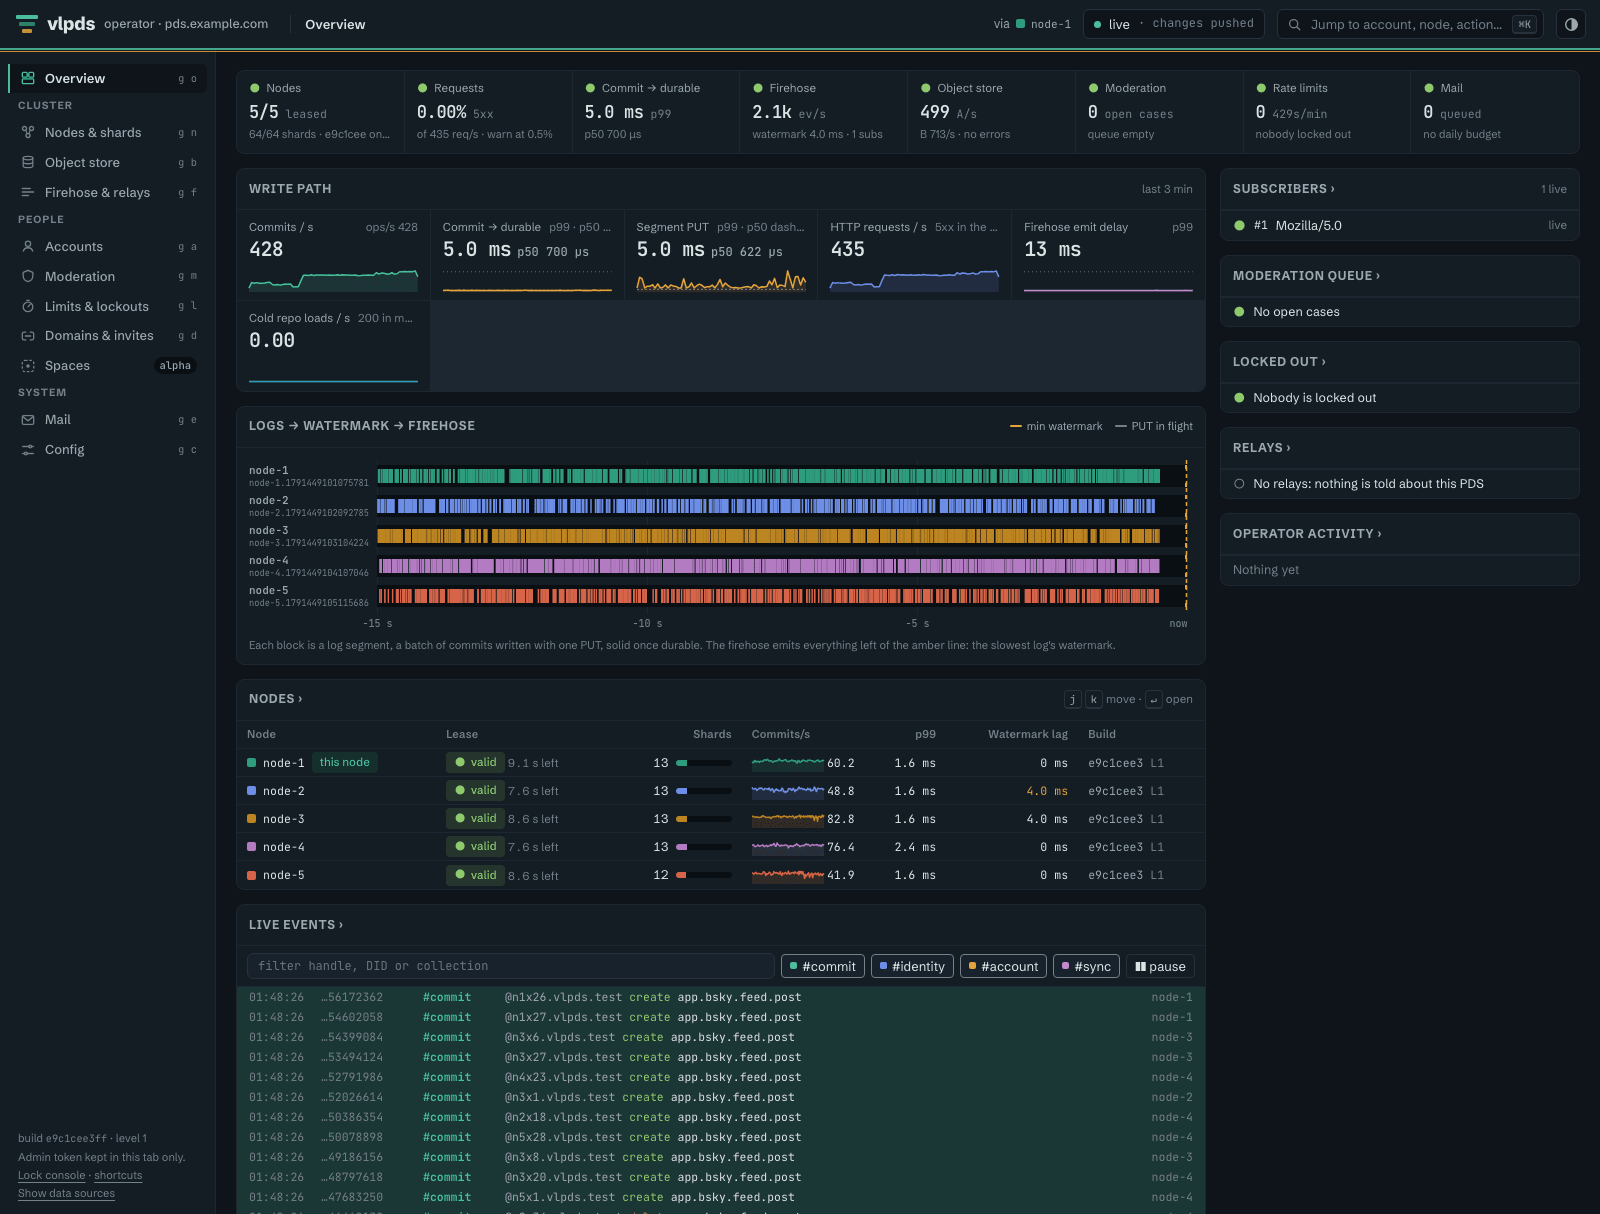
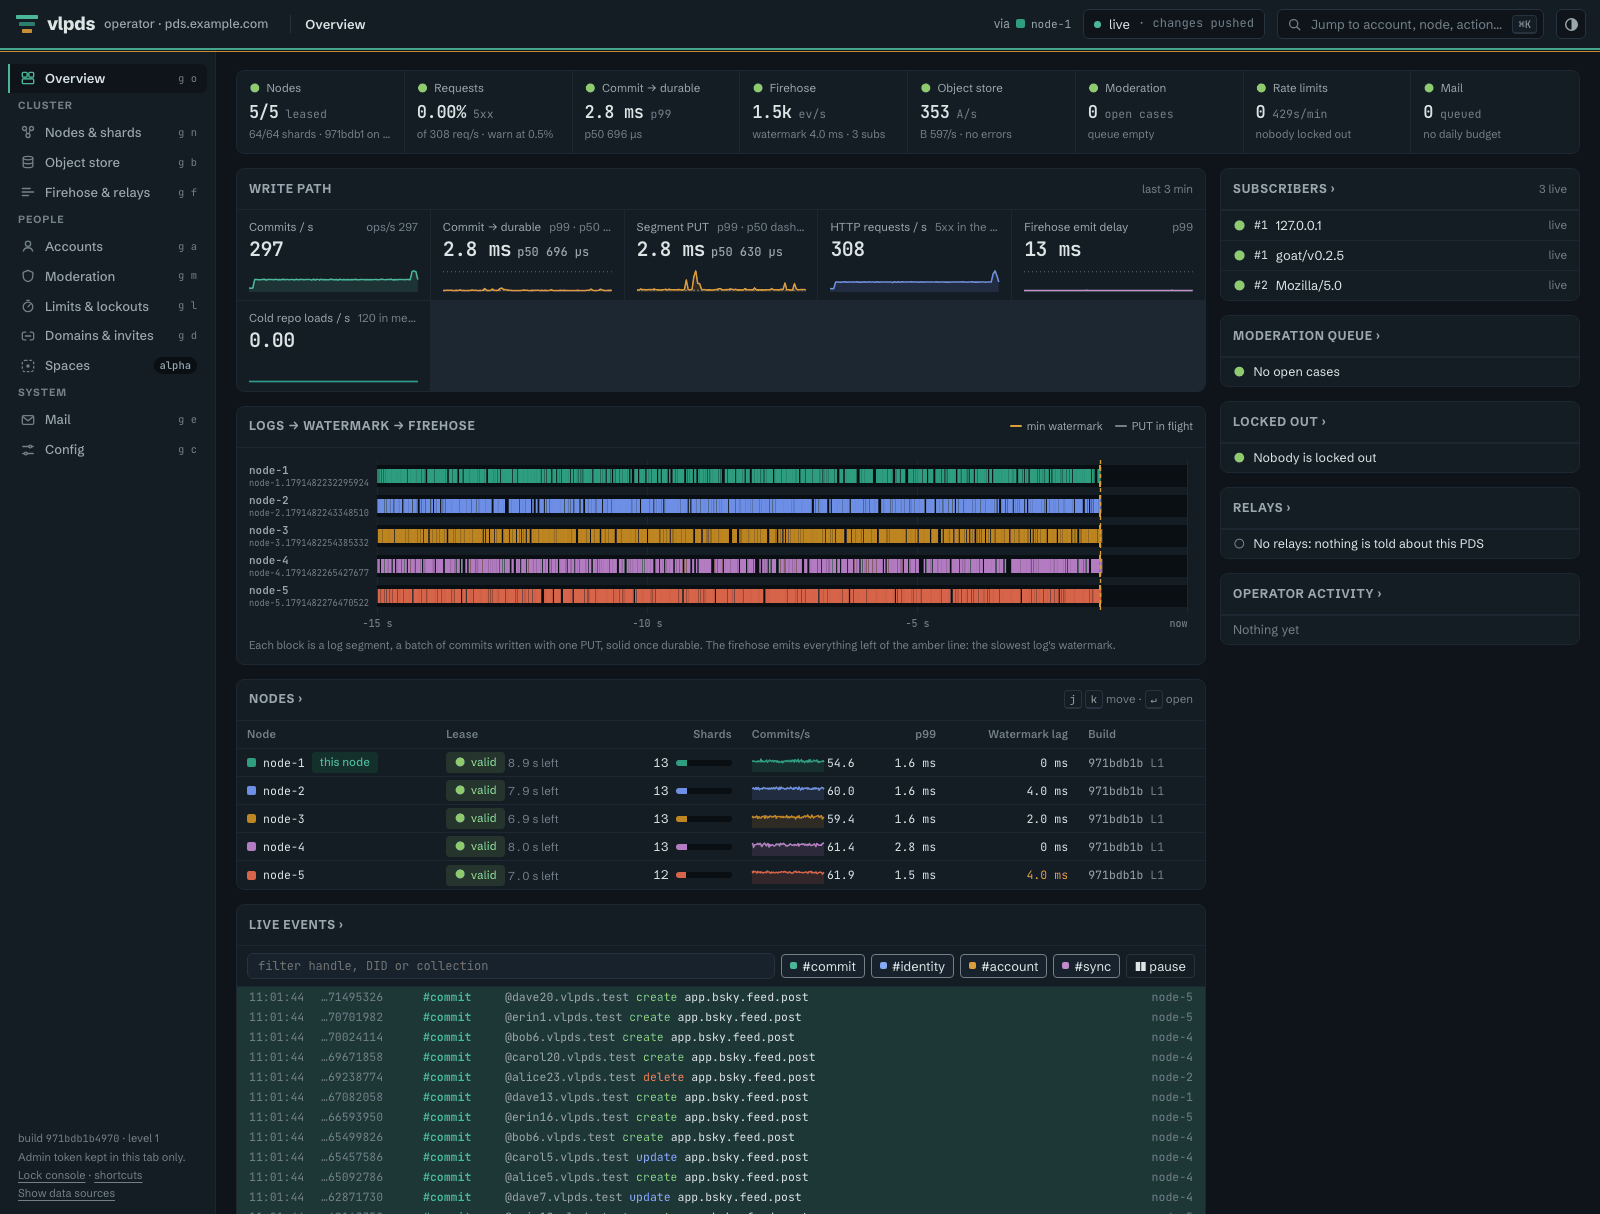
vlpds docs: console screenshots from a local 5-node cluster with fake accounts
console.png is a fresh Overview on a local 5-node cluster (one MinIO
bucket, 120 fake *.vlpds.test accounts, loadgen at ~300 commits/s, no
PLC directory or crawlers), and console-nodes.png adds the Nodes & shards
page from the same run, with a line in the README saying where both
come from.

Mono-Commit: 17ebfb7722a818de02906a76b5ce4720567eea17

diff --git a/README.md b/README.md
@@ -4,7 +4,7 @@ vlpds is an atproto PDS that uses an object store as its database. Every acknowl
 already in your S3, R2 or GCS bucket. Nodes only keep caches, so scaling out just means starting
 another node on the same bucket.
 
-![The operator console's overview for a 5-node cluster on one MinIO bucket under write load: node leases, the write path, each node's log segments and the firehose watermark, and live events](docs/assets/console.png)
+![The operator console's overview on a local 5-node cluster with fake accounts under write load: node leases, the write path, each node's log segments and the firehose watermark, and live events](docs/assets/console.png)
 
 vlpds speaks the same XRPC, OAuth and sync 1.1 firehose as the reference PDS, so apps, relays and
 AppViews talk to it like any other PDS. It can run a personal server on one small VM, or a cluster
@@ -44,6 +44,12 @@ single-node deployment (one 4-vCPU VPS with its data on Cloudflare R2), and it s
 - It's built to be operated. It has Prometheus metrics, 92 alerts that each have a runbook
   section, rolling upgrades with feature levels, Cloud KMS or a local key wrapping every signing
   key, SMTP mail and Ozone moderation. → [Operations](docs/operations/index.md)
+
+The screenshots here come from a local 5-node cluster on one MinIO bucket, with 120 fake accounts
+(`alice0.vlpds.test` and so on) and `loadgen` writing ~300 commits/s. The Nodes & shards page has
+each node's lease, log and memory, and which node owns each of the 64 shards:
+
+![The Nodes & shards page on the same cluster: five nodes with their leases, commit rates, logs and watermark lag, the shard ownership map, the firehose merge and the feature level](docs/assets/console-nodes.png)
 
 ## Quickstart
 
